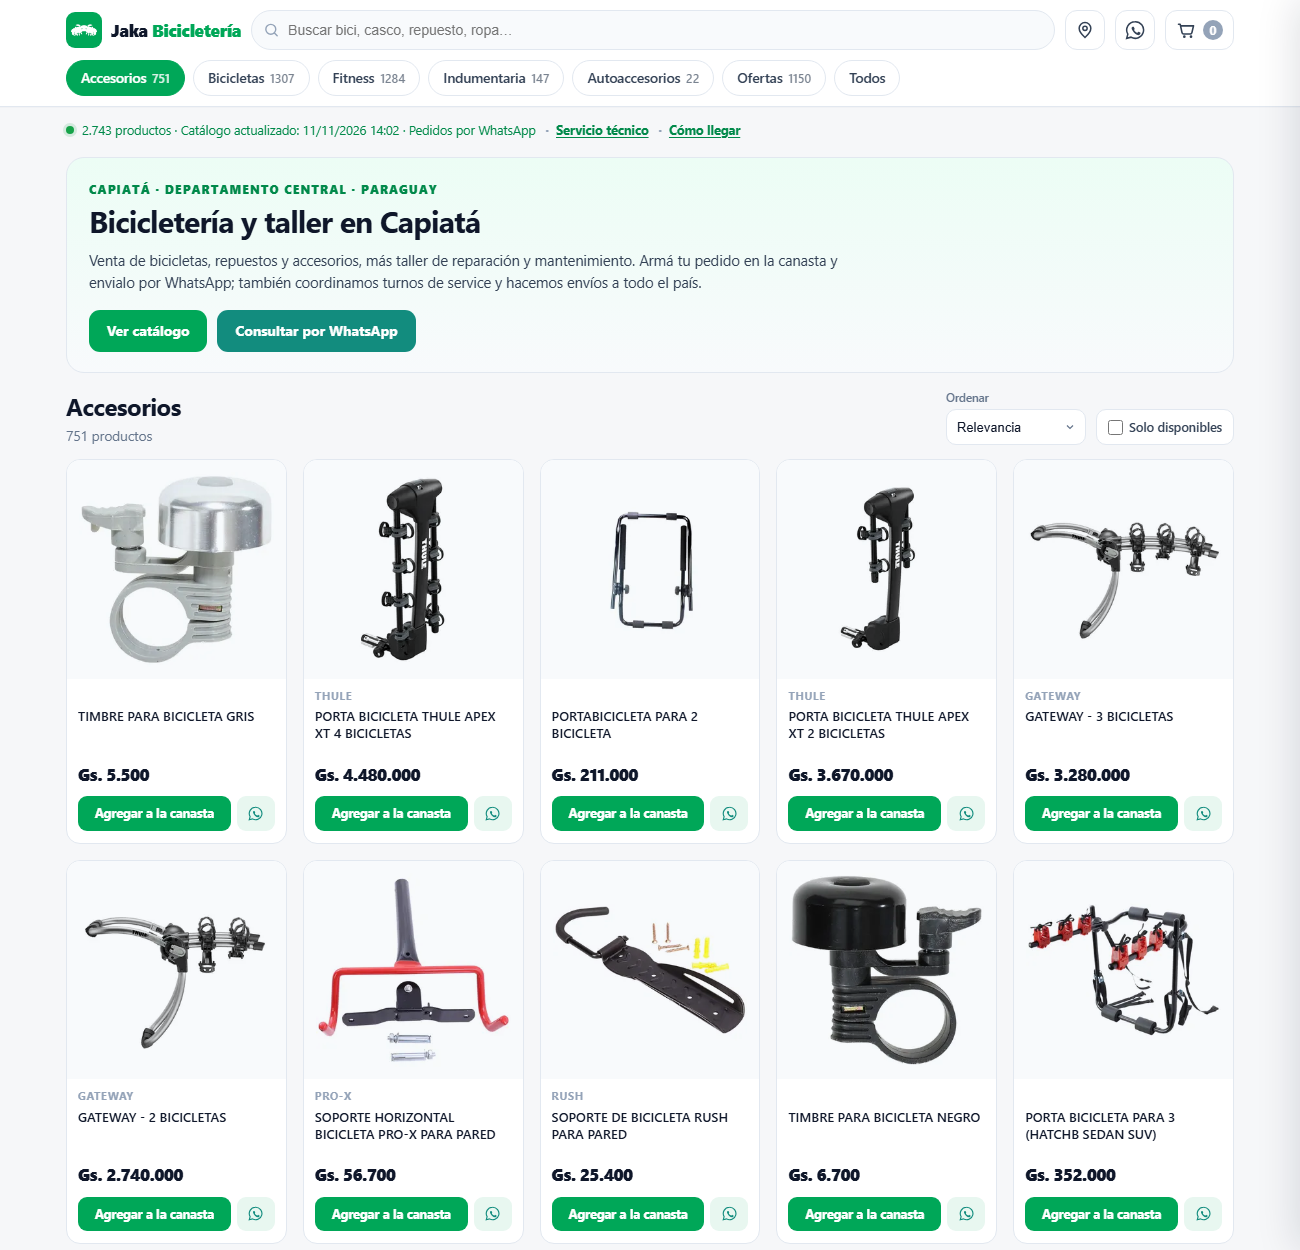
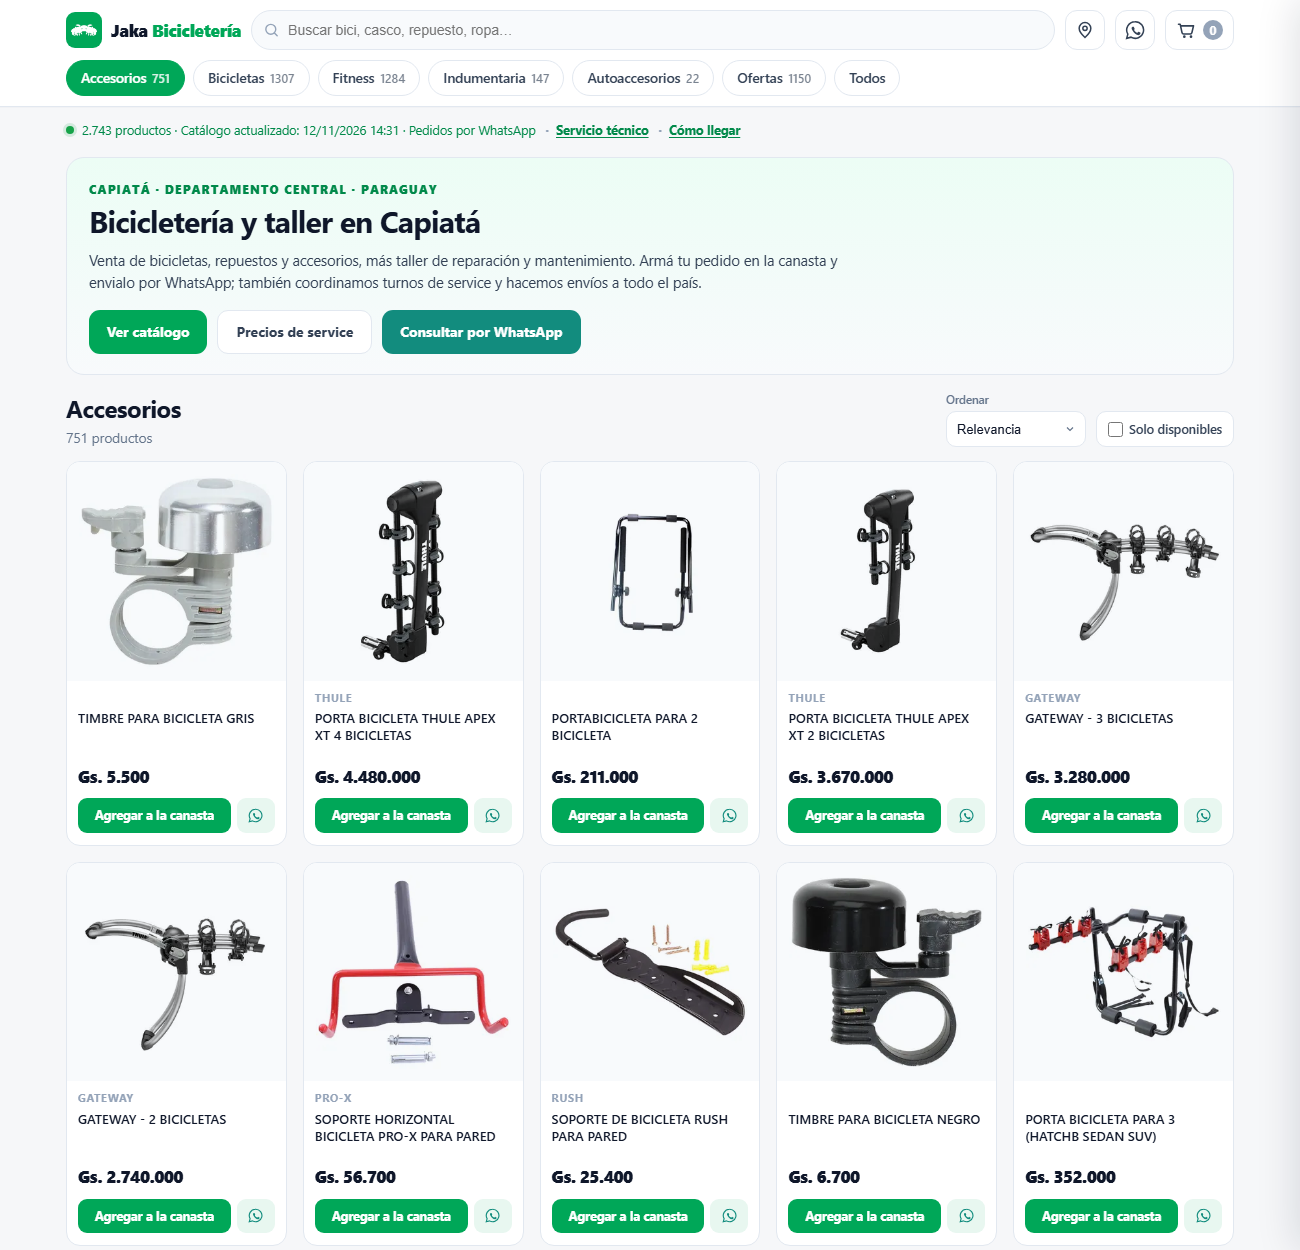
Reordenar secciones: precios de service primero, FAQ despues y bloque SEO discreto

diff --git a/tienda/index.html b/tienda/index.html
@@ -270,6 +270,7 @@ src="https://www.facebook.com/tr?id=1521450706425502&ev=PageView&noscript=1"/></
     <p class="portada__texto">Venta de bicicletas, repuestos y accesorios, más taller de reparación y mantenimiento. Armá tu pedido en la canasta y envialo por WhatsApp; también coordinamos turnos de service y hacemos envíos a todo el país.</p>
     <p class="portada__acciones">
       <a class="btn" href="#titulo-seccion">Ver catálogo</a>
+      <a class="btn btn--secundario" href="#servicio-tecnico">Precios de service</a>
       <a class="btn btn--wa" href="https://wa.me/595993539237?text=Hola!%20Quiero%20consultar%20por%20bicicletas%2C%20repuestos%20y%20service%20en%20Jaka%20Bicicleter%C3%ADa%20(Capiat%C3%A1)." target="_blank" rel="noopener">Consultar por WhatsApp</a>
     </p>
   </section>
@@ -316,20 +317,16 @@ src="https://www.facebook.com/tr?id=1521450706425502&ev=PageView&noscript=1"/></
   </div>
 </main>
 
-<!-- ================= Sobre la bicicletería (SEO local) ================= -->
-<section class="seo-local" id="sobre-nosotros" aria-labelledby="seo-local-titulo">
+<!-- ================= Servicio técnico (precios visibles) ================= -->
+<section class="servicio" id="servicio-tecnico" aria-labelledby="servicio-titulo">
   <div class="contenedor">
-    <h2 id="seo-local-titulo">Bicicletería y taller de bicicletas en Capiatá, Paraguay</h2>
-    <p class="seo-local__texto">Jaka Bicicletería es una bicicletería en Capiatá, Departamento Central, con venta de bicicletas, repuestos, accesorios, indumentaria y equipos de fitness, y con taller propio de reparación y mantenimiento. Trabajamos con marcas como Scott, Cannondale, Best, Bravo, Thule y Shimano, entre otras, y actualizamos el catálogo y los precios todos los días.</p>
-
-    <h3>Venta de bicicletas, repuestos y accesorios</h3>
-    <p class="seo-local__texto">Encontrá bicicletas MTB, de ruta, urbanas, infantiles y eléctricas, además de cascos, cubiertas, cámaras, cadenas, frenos, transmisión, portabultos y todo lo necesario para pedalear. Armá tu canasta en la web y enviá el pedido por WhatsApp al +595 993 539 237.</p>
-
-    <h3>Taller de reparación y mantenimiento</h3>
-    <p class="seo-local__texto">Nuestro taller ofrece tres planes de service: Básico (Gs. 80.000), Completo (Gs. 120.000) y Premium (Gs. 150.000), con lavado, ajuste de cambios y frenos, centrado de ruedas, mantenimiento de caja, masas y suspensión. Reservá tu turno por WhatsApp.</p>
-
-    <h3>Zona de cobertura</h3>
-    <p class="seo-local__texto">Atendemos clientes de Capiatá, San Lorenzo, Itauguá y J. Augusto Saldívar, con envíos coordinados a todo el Paraguay.</p>
+    <div class="servicio__encabezado">
+      <p class="servicio__etiqueta">Servicio técnico</p>
+      <h2 id="servicio-titulo">Mantenimiento y ajuste para tu bici</h2>
+      <p class="servicio__bajada">Tres planes con precio fijo. Reservá tu turno por WhatsApp y coordinamos el día y el horario.</p>
+    </div>
+    <div class="servicio__planes" id="servicio-planes"></div>
+    <p class="servicio__nota" id="servicio-nota"></p>
   </div>
 </section>
 
@@ -366,16 +363,24 @@ src="https://www.facebook.com/tr?id=1521450706425502&ev=PageView&noscript=1"/></
   </div>
 </section>
 
-<!-- ================= Servicio técnico ================= -->
-<section class="servicio" id="servicio-tecnico" aria-labelledby="servicio-titulo">
+<!-- ================= Sobre la bicicletería (SEO local, discreto) ================= -->
+<section class="seo-local" id="sobre-nosotros" aria-labelledby="seo-local-titulo">
   <div class="contenedor">
-    <div class="servicio__encabezado">
-      <p class="servicio__etiqueta">Servicio técnico</p>
-      <h2 id="servicio-titulo">Mantenimiento y ajuste para tu bici</h2>
-      <p class="servicio__bajada">Tres planes con precio fijo. Reservá tu turno por WhatsApp y coordinamos el día y el horario.</p>
-    </div>
-    <div class="servicio__planes" id="servicio-planes"></div>
-    <p class="servicio__nota" id="servicio-nota"></p>
+    <h2 id="seo-local-titulo">Bicicletería y taller de bicicletas en Capiatá, Paraguay</h2>
+    <p class="seo-local__texto">Jaka Bicicletería vende bicicletas, repuestos, accesorios, indumentaria y equipos de fitness, y tiene taller propio de reparación y mantenimiento en Capiatá, Departamento Central.</p>
+    <details class="seo-local__detalle">
+      <summary>Más sobre la bicicletería</summary>
+      <p class="seo-local__texto">Trabajamos con marcas como Scott, Cannondale, Best, Bravo, Thule y Shimano, entre otras, y actualizamos el catálogo y los precios todos los días.</p>
+
+      <h3>Venta de bicicletas, repuestos y accesorios</h3>
+      <p class="seo-local__texto">Encontrá bicicletas MTB, de ruta, urbanas, infantiles y eléctricas, además de cascos, cubiertas, cámaras, cadenas, frenos, transmisión, portabultos y todo lo necesario para pedalear. Armá tu canasta en la web y enviá el pedido por WhatsApp al +595 993 539 237.</p>
+
+      <h3>Taller de reparación y mantenimiento</h3>
+      <p class="seo-local__texto">Nuestro taller ofrece tres planes de service: Básico (Gs. 80.000), Completo (Gs. 120.000) y Premium (Gs. 150.000), con lavado, ajuste de cambios y frenos, centrado de ruedas, mantenimiento de caja, masas y suspensión. Reservá tu turno por WhatsApp.</p>
+
+      <h3>Zona de cobertura</h3>
+      <p class="seo-local__texto">Atendemos clientes de Capiatá, San Lorenzo, Itauguá y J. Augusto Saldívar, con envíos coordinados a todo el Paraguay.</p>
+    </details>
   </div>
 </section>
 

diff --git a/tienda/assets/estilos.css b/tienda/assets/estilos.css
@@ -273,12 +273,18 @@ h1{font-size:24px;letter-spacing:-.5px;margin:0 0 2px}
 .portada__acciones .btn{padding:11px 18px;font-size:14px}
 #titulo-seccion{font-size:24px;letter-spacing:-.5px;margin:0 0 2px;scroll-margin-top:130px}
 
-.seo-local{padding:40px 0 34px;border-bottom:1px solid var(--linea)}
-.seo-local h2{font-size:24px;letter-spacing:-.5px;margin:0 0 12px}
-.seo-local h3{font-size:16px;margin:20px 0 6px;color:var(--tinta)}
-.seo-local__texto{margin:0;color:var(--tinta-suave);font-size:14px;line-height:1.65;max-width:860px}
+.seo-local{padding:32px 0 38px;border-top:1px solid var(--linea)}
+.seo-local h2{font-size:22px;letter-spacing:-.4px;margin:0 0 10px}
+.seo-local h3{font-size:15px;margin:18px 0 6px;color:var(--tinta)}
+.seo-local__texto{margin:0;color:var(--tinta-suave);font-size:13.5px;line-height:1.6;max-width:860px}
+.seo-local__detalle{margin-top:10px}
+.seo-local__detalle summary{cursor:pointer;width:max-content;font-size:13.5px;font-weight:700;color:var(--verde-oscuro);list-style:none}
+.seo-local__detalle summary::-webkit-details-marker{display:none}
+.seo-local__detalle summary::before{content:"+ "}
+.seo-local__detalle[open] summary::before{content:"– "}
+.seo-local__detalle[open] summary{margin-bottom:8px}
 
-.faq{padding:38px 0 42px;background:#f8fafc;border-bottom:1px solid var(--linea);scroll-margin-top:120px}
+.faq{padding:38px 0 42px;background:#f8fafc;scroll-margin-top:120px}
 .faq h2{font-size:24px;letter-spacing:-.5px;margin:0 0 16px}
 .faq__lista{display:flex;flex-direction:column;gap:8px;max-width:900px}
 .faq__item{background:#fff;border:1px solid var(--linea);border-radius:12px;padding:0 16px}
@@ -298,7 +304,7 @@ h1{font-size:24px;letter-spacing:-.5px;margin:0 0 2px}
 }
 
 /* ------------------------------ Servicio técnico ------------------------------ */
-.servicio{background:#0b1220;color:#e2e8f0;padding:40px 0 46px;margin-top:34px;scroll-margin-top:120px}
+.servicio{background:#0b1220;color:#e2e8f0;padding:40px 0 46px;margin-top:0;scroll-margin-top:120px}
 .servicio__etiqueta{display:inline-block;font-size:11.5px;font-weight:800;letter-spacing:.14em;text-transform:uppercase;color:#5eead4;margin:0 0 6px}
 .servicio h2{color:#fff;font-size:25px;letter-spacing:-.5px;margin:0 0 8px}
 .servicio__bajada{color:#94a3b8;font-size:14px;margin:0 0 24px;max-width:620px}
@@ -313,7 +319,7 @@ h1{font-size:24px;letter-spacing:-.5px;margin:0 0 2px}
 .plan__lista li::before{content:"✓";position:absolute;left:0;top:0;color:var(--verde);font-weight:800}
 .plan__cta{justify-content:center;text-align:center;font-size:13.5px;padding:11px 12px}
 .servicio__nota{color:#64748b;font-size:12px;margin:18px 0 0;text-align:center}
-.servicio + .pie{margin-top:0}
+.seo-local + .pie{margin-top:0}
 html{scroll-behavior:smooth}
 @media (prefers-reduced-motion:reduce){html{scroll-behavior:auto}}
 

diff --git a/tienda/README.md b/tienda/README.md
@@ -312,7 +312,9 @@ que los asistentes de IA lo lean y lo citen.
 ### Estructura semántica
 
 - **Un solo `<h1>`**: "Bicicletería y taller en Capiatá" (el título del catálogo pasó a `<h2>`).
-- Sección **"Bicicletería y taller de bicicletas en Capiatá"** con `<h3>` de venta, taller y zona de cobertura.
+- Orden de la página: portada → catálogo → **Servicio técnico con precios** → **FAQ** → bloque SEO discreto.
+- El bloque **"Bicicletería y taller de bicicletas en Capiatá"** queda al final, con el texto ampliado dentro de un
+  `<details>` ("Más sobre la bicicletería") para que no ocupe espacio visible pero siga en el HTML para los buscadores.
 - **FAQ visible** con 6 `<details>/<summary>` que coincide exactamente con el JSON-LD `FAQPage`.
 - Imágenes con `alt` descriptivo y local (`producto — marca · Jaka Bicicletería, Capiatá`) y `loading="lazy"`.
 
